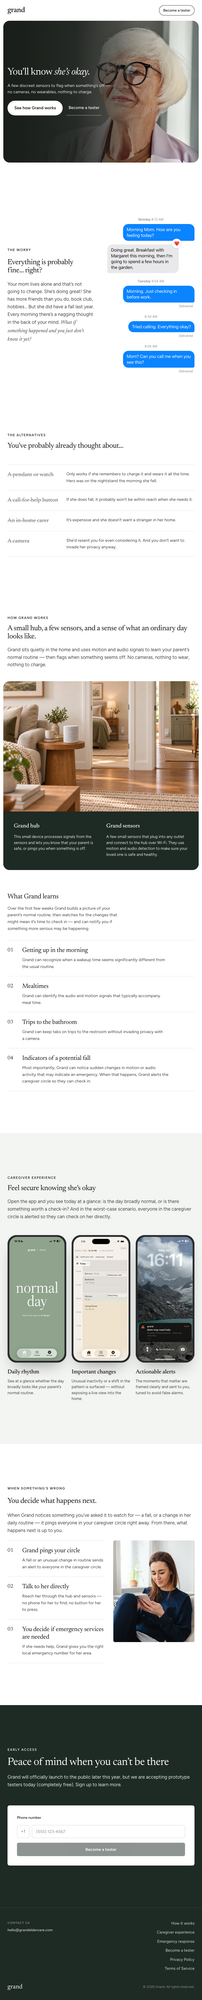
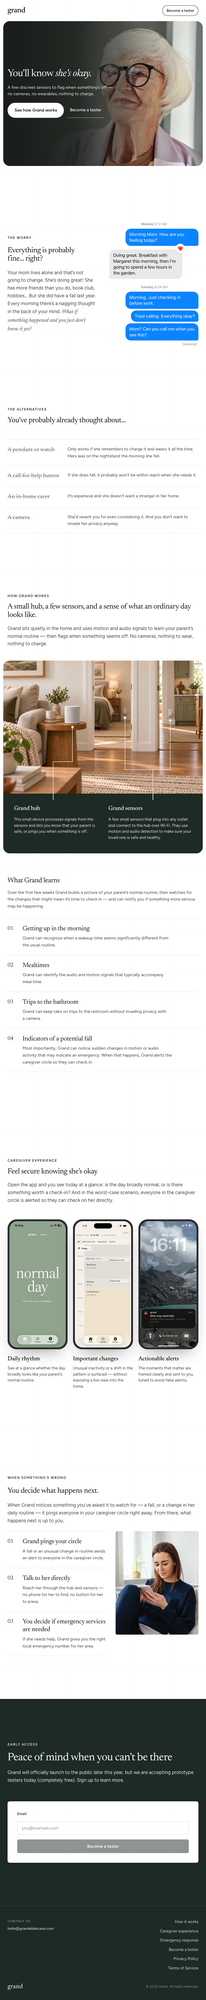
Refine hero navigation, animate messages, and adapt product imagery

diff --git a/homepage.css b/homepage.css
@@ -43,8 +43,9 @@ input::placeholder{color:var(--muted-2)}
 .link-ul{text-decoration:none;color:var(--ink);padding:16px 8px;font-weight:500;font-size:16px;border-bottom:1px solid var(--ink)}
 
 /* header */
-.site-header{position:sticky;top:0;z-index:10;background:rgba(255,255,255,.88);backdrop-filter:blur(12px);border-bottom:1px solid transparent;transition:border-color .2s}
+.site-header{position:sticky;top:0;z-index:10;background:rgba(255,255,255,.88);backdrop-filter:blur(12px);border-bottom:1px solid transparent;transition:border-color .2s,box-shadow .2s}
 .site-header.is-scrolled{border-bottom-color:var(--rule)}
+.site-header.is-stuck{box-shadow:0 1px 2px rgba(20,29,24,.12)}
 .site-header nav{display:flex;align-items:center;justify-content:space-between;gap:24px;padding-top:18px;padding-bottom:18px}
 .brand{text-decoration:none;font-family:var(--serif);font-size:28px;font-weight:500;letter-spacing:-.02em;display:flex;align-items:baseline;gap:10px;color:var(--ink)}
 .brand small{font-family:var(--sans);font-size:13px;color:var(--muted);letter-spacing:0}
@@ -119,6 +120,15 @@ input::placeholder{color:var(--muted-2)}
  .hero-media::after{display:none}
 }
 
+/* Center the hero itself; reserve room above it for the sticky menu. */
+@media(min-width:1101px){
+ .homepage{--desktop-hero-height:clamp(540px,calc(100svh - 158px),780px);padding-top:max(0px,calc((100svh - var(--desktop-hero-height))/2 - 79px))}
+ .homepage .site-header{position:sticky;top:0;background:rgba(255,255,255,.82);-webkit-backdrop-filter:blur(12px);backdrop-filter:blur(12px);border-bottom-color:transparent}
+ .hero{padding:0 0 max(79px,calc((100svh - var(--desktop-hero-height))/2))}
+ .hero .wrap{width:100%;padding-bottom:0}
+ .hero-media{height:var(--desktop-hero-height)}
+}
+
 /* Keep overlaid copy legible as the photo and text converge on tablets. */
 @media(min-width:701px) and (max-width:1000px){
  .hero-media::after{display:block;background:linear-gradient(90deg,rgba(20,19,17,.6) 0%,rgba(20,19,17,.5) 58%,transparent 90%)}
@@ -139,6 +149,12 @@ input::placeholder{color:var(--muted-2)}
 .bubble.them{align-self:flex-start;background:#e9e9eb;color:#141311;border-bottom-left-radius:6px;margin-top:14px}
 .tapback{position:absolute;top:-22px;right:-10px;width:36px;height:36px;border-radius:50%;background:#fff;box-shadow:0 1px 3px rgba(0,0,0,.18);display:flex;align-items:center;justify-content:center;font-size:15px}
 .thread-status{margin:5px 6px 0 0;align-self:flex-end;font-size:12px;color:#8a8a8e}
+/* Reserve the conversation's height while Tuesday's messages arrive once. */
+@media(prefers-reduced-motion:no-preference){
+ .thread-animated [data-thread-reveal]{opacity:0;transform:translateY(8px)}
+ .thread-animated.is-playing [data-thread-reveal]{animation:thread-arrive .36s ease-out var(--message-delay,0ms) both}
+}
+@keyframes thread-arrive{from{opacity:0;transform:translateY(8px)}to{opacity:1;transform:translateY(0)}}
 @media(max-width:1000px){.worry .grid-2{gap:48px}}
 
 /* Alternatives: open layout with content on the shared column. */
@@ -161,10 +177,13 @@ input::placeholder{color:var(--muted-2)}
 .scene>img{position:absolute;inset:0;width:100%;height:100%;object-fit:cover}
 .scene-leaders{position:absolute;inset:0;width:100%;height:100%;overflow:visible}
 .scene-leaders polyline{fill:none;stroke:#fff;stroke-width:1.5;stroke-linejoin:round;vector-effect:non-scaling-stroke;filter:drop-shadow(0 0 1px rgba(0,0,0,.35))}
+.scene-tablet-leaders{display:none;pointer-events:none}
+.scene-tablet-leaders ellipse{fill:#fff}
 .note-dot{position:absolute;width:10px;height:10px;margin:-5px 0 0 -5px;border-radius:50%;background:#fff;box-shadow:0 0 0 3px rgba(255,255,255,.35),0 1px 3px rgba(0,0,0,.3)}
 .scene-note{position:absolute;padding:20px 22px;border-radius:14px;background:rgba(255,255,255,.94);color:var(--ink);box-shadow:0 8px 30px rgba(20,26,22,.18);backdrop-filter:blur(6px)}
 .note-hub{left:6%;top:64%;width:26%}
 .note-sensor{left:56%;top:66%;width:28%}
+.device-porthole{display:none}
 .scene-note .h4{font-size:22px}
 .scene-note .body{font-size:15px;line-height:1.5}
 @media(min-width:701px){#system .system-scene-wrap{max-width:none;padding-left:var(--frame-left);padding-right:var(--frame-left)}}
@@ -179,10 +198,29 @@ input::placeholder{color:var(--muted-2)}
  .scene-note .h4{color:#fff}
  .scene-note .body{color:rgba(255,255,255,.9)}
 }
+@media(min-width:701px) and (max-width:1000px){
+ .scene-tablet-leaders{display:block;height:auto;aspect-ratio:3/2}
+ .scene-notes{position:relative}
+ .scene-notes::before,.scene-notes::after{content:"";position:absolute;top:0;height:24px;width:1.5px;background:#fff;transform:translateX(-50%)}
+ .scene-notes::before{left:25%}
+ .scene-notes::after{left:75%}
+}
+@media(min-width:701px) and (max-width:1100px){
+ #system .routine-layout{grid-template-columns:1fr;gap:32px}
+ #system .routine-layout>.stack .body{max-width:none}
+}
 @media(max-width:700px){
  #system .system-routine-wrap{padding-top:56px}
- .scene{border-radius:20px}
- .scene-notes{grid-template-columns:1fr;padding:28px 20px 32px;gap:28px}
+ .scene{border-radius:0;background:none;overflow:visible}
+ .scene>img{display:none}
+ .scene-notes{grid-template-columns:1fr;padding:0;gap:32px;background:none}
+ .scene-note{gap:0;background:var(--band);border-radius:20px;overflow:hidden}
+ .scene-note .h4{color:#fff;margin:28px 20px 12px}
+ .scene-note .body{color:rgba(255,255,255,.9);margin:0 20px 32px}
+ .device-porthole{display:block;position:relative;width:100%;aspect-ratio:3/2;overflow:hidden;margin:0;background:#e9ece7}
+ .device-porthole img{position:absolute;left:50%;top:50%;max-width:none;height:auto}
+ .porthole-hub img{width:400%;transform:translate(-34.7%,-40.5%)}
+ .porthole-sensor img{width:750%;transform:translate(-83.7%,-39.5%)}
 }
 @media(max-width:700px){#alternatives .wrap{padding-top:40px;padding-bottom:40px}}
 
@@ -214,11 +252,9 @@ input::placeholder{color:var(--muted-2)}
 .routine-copy{display:flex;flex-direction:column;gap:8px}
 .routine-copy h3{font-family:var(--serif);font-weight:400;font-size:24px;line-height:1.2;letter-spacing:-.015em}
 .routine-copy .body{font-size:16px;line-height:1.6;max-width:560px}
-.routine-layout>.stack{position:sticky;top:112px}
-@media(max-width:1000px){.routine-layout{grid-template-columns:1fr;gap:32px}.routine-layout>.stack{position:static}}
+@media(max-width:1000px){.routine-layout{grid-template-columns:1fr;gap:32px}}
 
 /* app */
-#tracking{background:#f3f5f2}
 /* Keep all three app screens together on tablet and desktop. */
 .screens{display:grid;grid-template-columns:repeat(3,minmax(0,1fr));gap:32px}
 @media(min-width:701px) and (max-width:1000px){.screens{gap:20px}}

diff --git a/index.html b/index.html
@@ -105,7 +105,7 @@
     <script src="posthog.js" defer></script>
     <script src="script.js" defer></script>
   </head>
-<body>
+<body class="homepage">
 <a class="skip-link" href="#main-content">Skip to content</a>
 
 <header class="site-header">
@@ -150,15 +150,11 @@
           <p class="thread-day">Monday <span>8:12 AM</span></p>
           <div class="bubble me">Morning Mom. How are you feeling today?</div>
           <div class="bubble them"><span class="tapback" aria-hidden="true">&#10084;&#65039;</span>Doing great. Breakfast with Margaret this morning, then I&rsquo;m going to spend a few hours in the garden.</div>
-          <p class="thread-day">Tuesday <span>8:04 AM</span></p>
-          <div class="bubble me">Morning. Just checking in before work.</div>
-          <p class="thread-status">Delivered</p>
-          <p class="thread-day"><span>8:34 AM</span></p>
-          <div class="bubble me">Tried calling. Everything okay?</div>
-          <p class="thread-status">Delivered</p>
-          <p class="thread-day"><span>9:04 AM</span></p>
-          <div class="bubble me">Mom? Can you call me when you see this?</div>
-          <p class="thread-status">Delivered</p>
+          <p data-thread-reveal class="thread-day">Tuesday <span>8:04 AM</span></p>
+          <div data-thread-reveal class="bubble me">Morning. Just checking in before work.</div>
+          <div data-thread-reveal class="bubble me">Tried calling. Everything okay?</div>
+          <div data-thread-reveal class="bubble me">Mom? Can you call me when you see this?</div>
+          <p data-thread-reveal class="thread-status">Delivered</p>
         </div>
       </div>
     </div>
@@ -213,15 +209,29 @@
         <polyline points="61,66 61,43"></polyline>
         <polyline points="81,66 81,54 83.7,54 83.7,45"></polyline>
       </svg>
+      <svg class="scene-leaders scene-tablet-leaders" viewBox="0 0 100 100" preserveAspectRatio="none" aria-hidden="true">
+        <polyline points="34.7,50 34.7,76 25,76 25,100"></polyline>
+        <polyline points="61,43 61,82 75,82 75,100"></polyline>
+        <polyline points="83.7,45 83.7,82 75,82"></polyline>
+        <ellipse cx="34.7" cy="50" rx=".6" ry=".9"></ellipse>
+        <ellipse cx="61" cy="43" rx=".6" ry=".9"></ellipse>
+        <ellipse cx="83.7" cy="45" rx=".6" ry=".9"></ellipse>
+      </svg>
       <span class="note-dot" style="left:34.7%;top:50%" aria-hidden="true"></span>
       <span class="note-dot" style="left:61%;top:43%" aria-hidden="true"></span>
       <span class="note-dot" style="left:83.7%;top:45%" aria-hidden="true"></span>
       <div class="scene-notes">
         <div class="scene-note note-hub stack stack-12">
+          <div class="device-porthole porthole-hub">
+            <img src="assets/grand-hub-and-sensors-home-v3.webp" width="1536" height="1024" loading="lazy" decoding="async" alt="Close-up of the Grand hub on a living-room side table.">
+          </div>
           <h3 class="h4">Grand hub</h3>
           <p class="body">This small device processes signals from the sensors and lets you know that your parent is safe, or pings you when something is off.</p>
         </div>
         <div class="scene-note note-sensor stack stack-12">
+          <div class="device-porthole porthole-sensor">
+            <img src="assets/grand-hub-and-sensors-home-v3.webp" width="1536" height="1024" loading="lazy" decoding="async" alt="Close-up of a Grand sensor plugged into the kitchen wall outlet.">
+          </div>
           <h3 class="h4">Grand sensors</h3>
           <p class="body">A few small sensors that plug into any outlet and connect to the hub over Wi&#8209;Fi. They use motion and audio detection to make sure your loved one is safe and healthy.</p>
         </div>
@@ -388,6 +398,42 @@
   </div>
 </footer>
 
-<script>(function(){var h=document.querySelector(".site-header"),t=document.querySelector(".hero-media");if(!h||!t||!("IntersectionObserver" in window))return;var io=new IntersectionObserver(function(e){h.classList.toggle("is-scrolled",!e[0].isIntersecting)},{rootMargin:"-"+h.offsetHeight+"px 0px 0px 0px",threshold:0});io.observe(t)})();</script>
+<script>
+(function () {
+  var header = document.querySelector(".site-header");
+  var hero = document.querySelector(".hero-media");
+  if (!header || !hero) return;
+
+  function updateMenuShadow() {
+    var sticky = window.getComputedStyle(header).position === "sticky";
+    header.classList.toggle("is-stuck", sticky && window.scrollY > 0 && header.getBoundingClientRect().top <= 0);
+  }
+  window.addEventListener("scroll", updateMenuShadow, { passive: true });
+  window.addEventListener("resize", updateMenuShadow);
+  updateMenuShadow();
+
+  if (!("IntersectionObserver" in window)) return;
+  var observer = new IntersectionObserver(function (entries) {
+    header.classList.toggle("is-scrolled", !entries[0].isIntersecting);
+  }, { rootMargin: "-" + header.offsetHeight + "px 0px 0px 0px", threshold: 0 });
+  observer.observe(hero);
+})();
+(function () {
+  var thread = document.querySelector(".thread");
+  if (!thread || !("IntersectionObserver" in window) || window.matchMedia("(prefers-reduced-motion: reduce)").matches) return;
+
+  var delays = [0, 450, 1450, 2450, 2900];
+  thread.querySelectorAll("[data-thread-reveal]").forEach(function (item, index) {
+    item.style.setProperty("--message-delay", delays[index] + "ms");
+  });
+  var observer = new IntersectionObserver(function (entries) {
+    if (!entries.some(function (entry) { return entry.isIntersecting; })) return;
+    thread.classList.add("is-playing");
+    observer.disconnect();
+  }, { threshold: 0.35 });
+  thread.classList.add("thread-animated");
+  observer.observe(thread);
+})();
+</script>
 </body>
 </html>

diff --git a/README.md b/README.md
@@ -4,6 +4,22 @@ Static landing-page wireframe for Grand.
 
 ## Status
 
+- Added tablet connector lines from the full house image into the hub/sensor caption band, ending below the devices. The tablet “What Grand learns” introduction now spans the full content width above the routine list.
+
+- Split the mobile “How Grand works” scene into two stacked versions of the original rounded photo-and-dark-caption layout: one zoomed house-image crop for the hub and one for the kitchen sensor. Desktop/tablet retain the full scene and existing captions.
+
+- Animated the worry thread from Tuesday onward: the day label, three unanswered messages, and Delivered status appear in sequence once the conversation enters view. Monday stays visible, space is reserved to avoid layout shifts, and reduced-motion/no-JavaScript visitors see the full thread immediately.
+
+- Removed sticky positioning from the “What Grand learns” introduction so it scrolls normally alongside the routine list.
+
+- Grouped Tuesday’s unanswered iMessage bubbles into a compact stack with 6px gaps and a single Delivered label beneath the final message; removed the intervening timestamp/status rows.
+
+- Removed the caregiver experience section’s tinted background so it uses the page’s white background.
+
+- Desktop navigation is a distinct translucent white menu bar with a subtle backdrop blur directly above the hero. The hero image itself is vertically centered on load, with the menu above it excluded from the centering calculation, and the menu sticks to the viewport top when scrolling reaches it, with a compact, darker shadow while pinned (1px offset, 2px blur, 12% opacity). Tablet/mobile and secondary-page navigation are unchanged.
+
+- Vertically centered the desktop hero within the initial viewport below the header, with equal top/bottom space and no automatic scrolling. Tablet and mobile layouts retain their existing behavior.
+
 - Updated full-page homepage screenshots in `docs/screenshots/homepage/`: desktop at 1440px, tablet at 768px, and mobile at 390px, documenting the final design and tablet refinements for PR #74.
 
 - Refined the tablet layout (701–1000px): caregiver app screenshots remain three across; the emergency section places its introduction above a paired layout of response steps and a compact photo, instead of letting the photo expand beneath the section.
